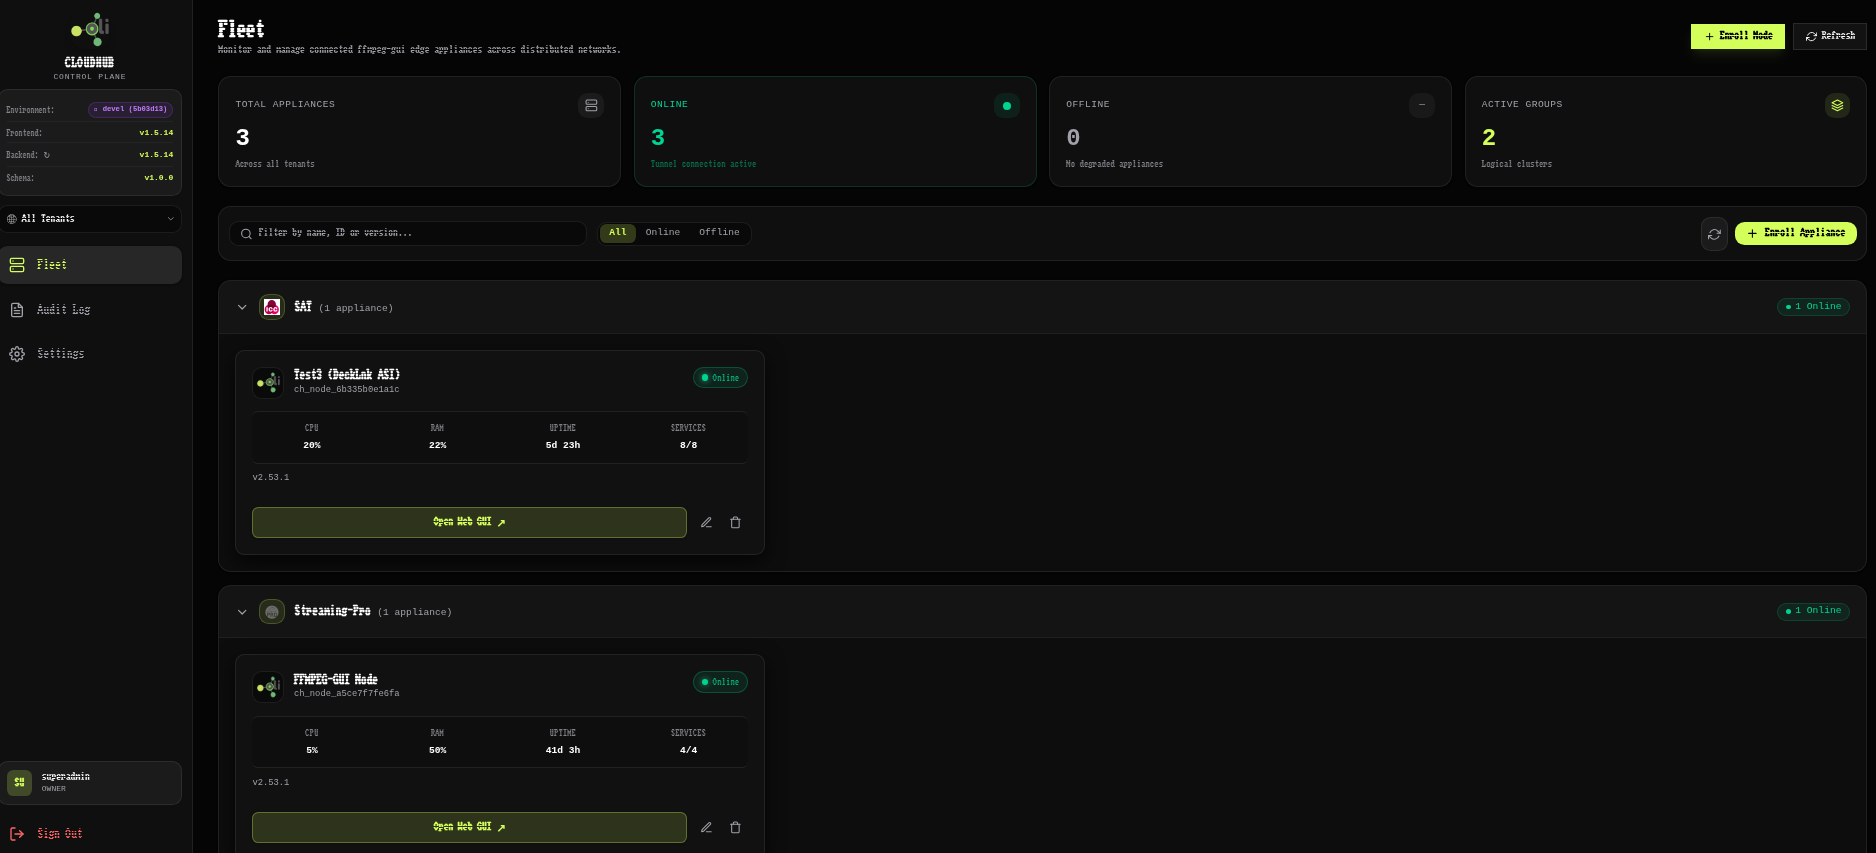
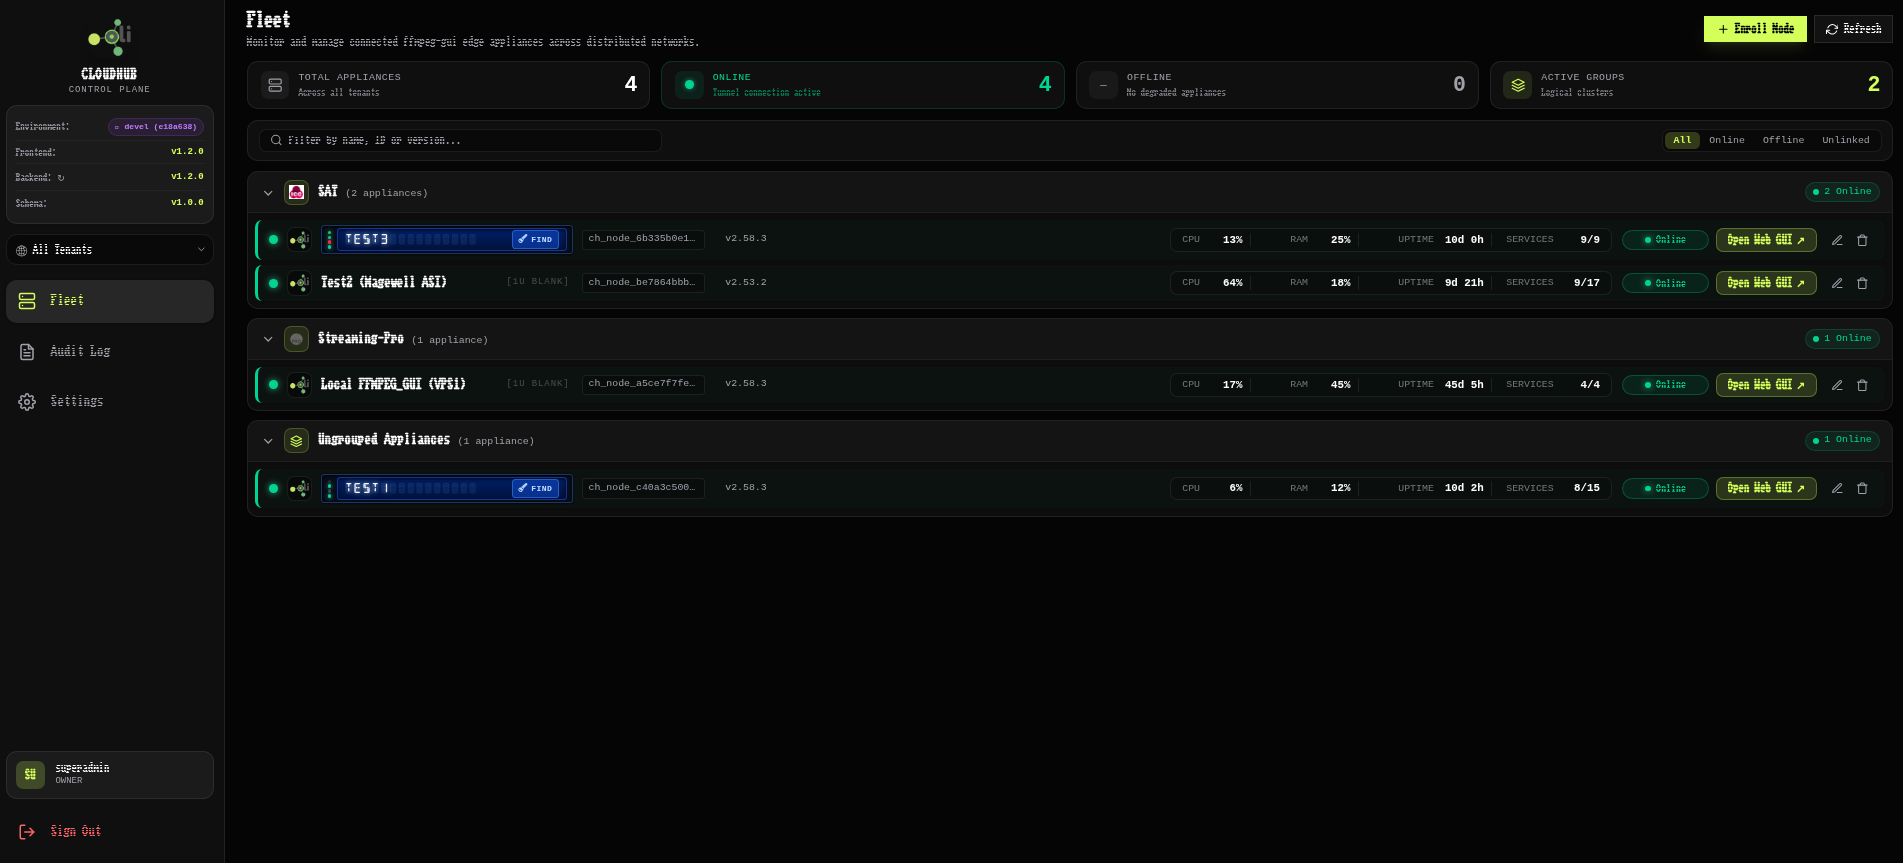
docs: update fleet screenshot and credit DSEG font under SIL OFL 1.1

diff --git a/README.md b/README.md
@@ -158,6 +158,7 @@ cd frontend && npm run build
 
 ---
 
-## License
+## License & Third-Party Credits
 
-This project is licensed under the [MIT License](LICENSE).
+- `ffmpeg-gui-cloudhub` is licensed under the [MIT License](LICENSE).
+- **DSEG Font Family** (used for the 14-segment virtual LCD panel) is created by [keshikan](https://www.keshikan.net) and licensed under the [SIL Open Font License 1.1](https://scripts.sil.org/OFL) (see [OFL.txt](frontend/src/assets/fonts/OFL.txt)).
